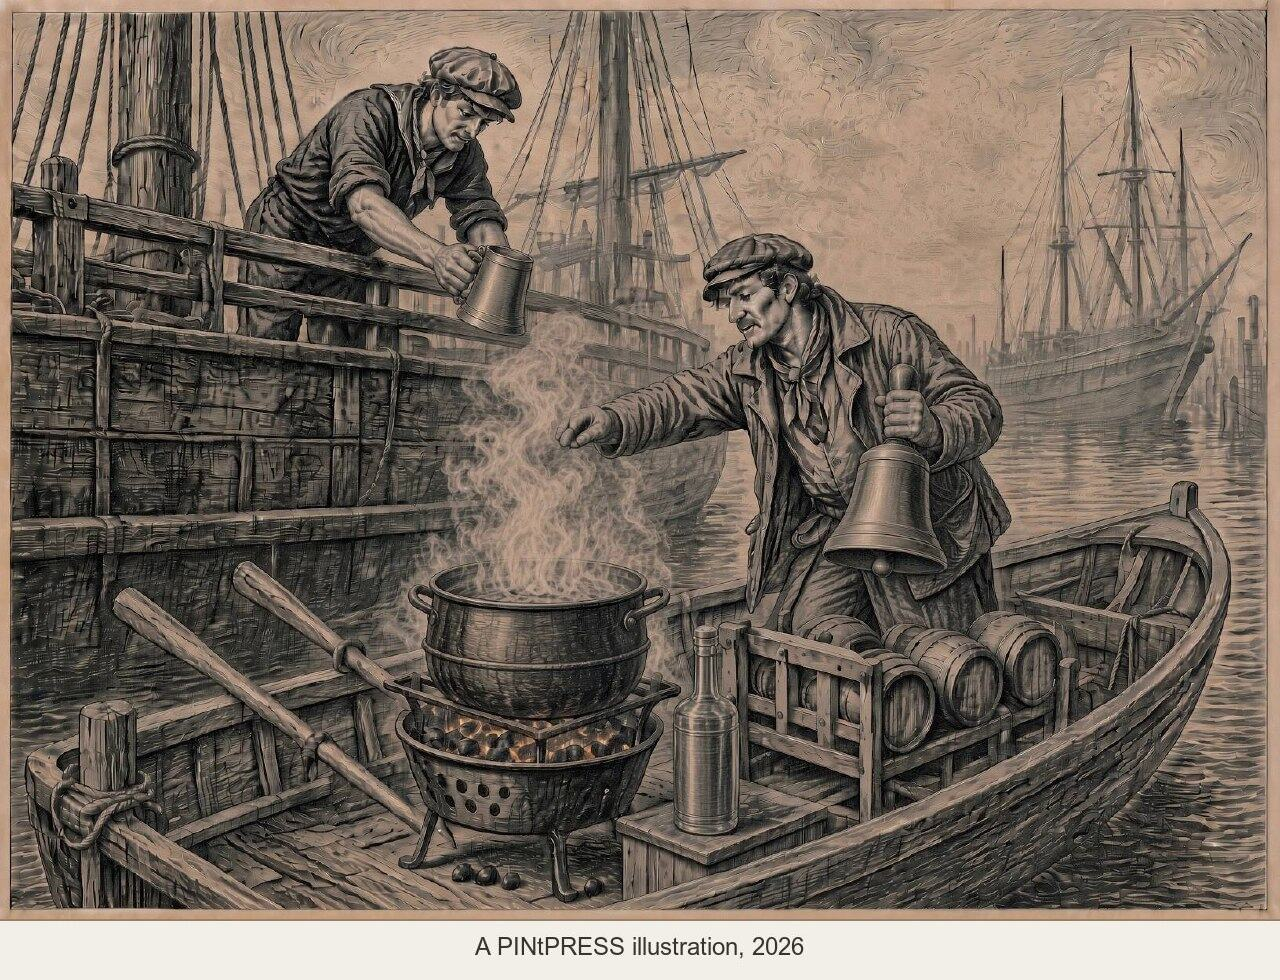
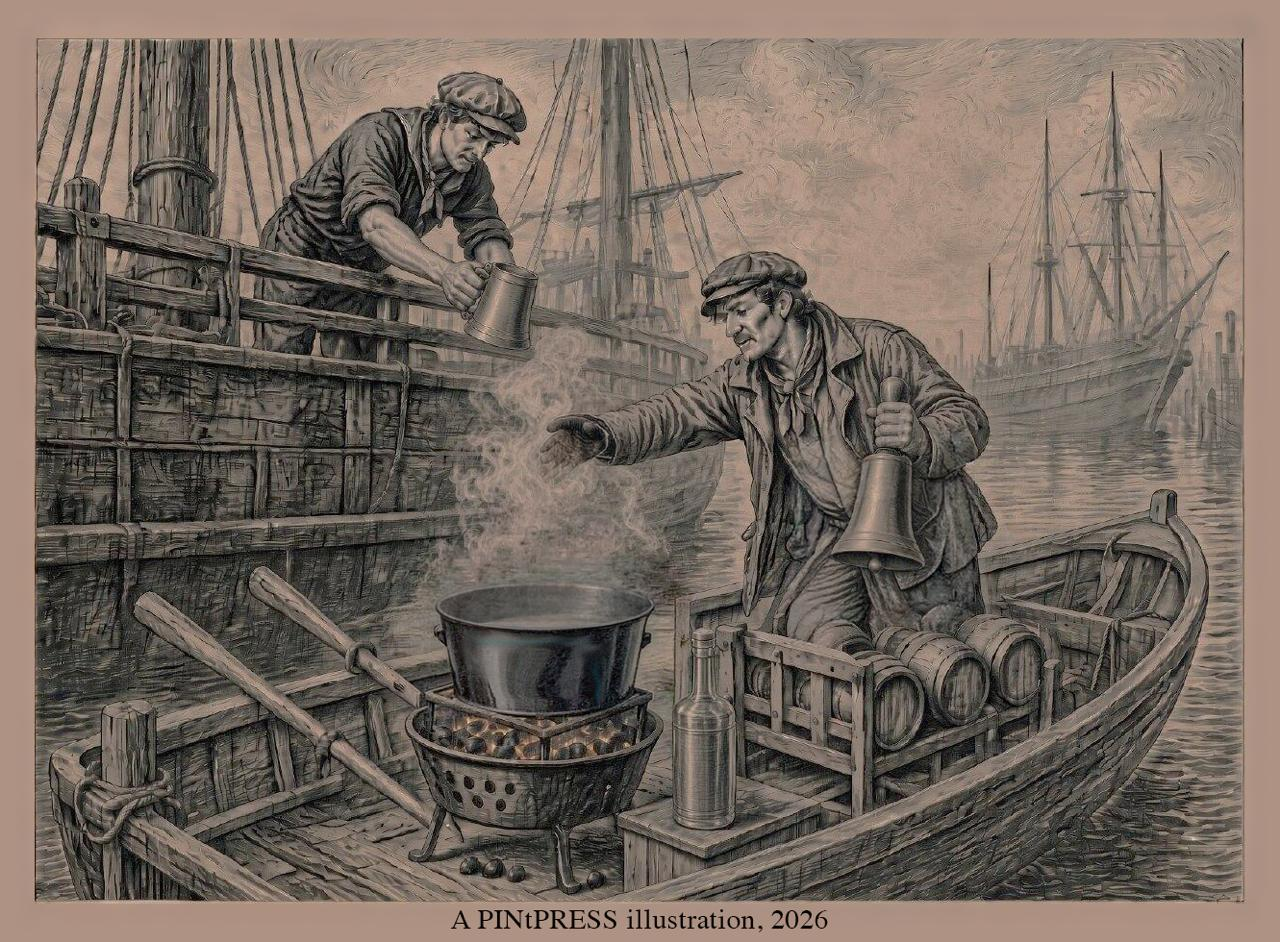
Purl: one plate, not a picture with a strip bolted under it
Paul's version sets the credit line in the plate's own paper and its own
serif, with an even border all round, so the full-size file reads as a
single object rather than an engraving with a caption spliced on.
1280x942. Lighter too: 246,631 and 203,748 against 343,547 and 230,472.

diff --git a/blog/drafts/hot-beer.html b/blog/drafts/hot-beer.html
@@ -78,7 +78,7 @@
       <a href="https://pintpoint.co.uk/blog/images/hot-beer-purl-man-illustration.jpg" target="_blank" rel="noopener noreferrer">
         <picture>
           <source type="image/webp" srcset="https://pintpoint.co.uk/blog/images/hot-beer-purl-man-illustration.webp" />
-          <img src="https://pintpoint.co.uk/blog/images/hot-beer-purl-man-illustration.jpg" alt="A modern illustration drawn in the manner of a Victorian wood engraving. A young purl-man leans out of his skiff with his oars resting across it, a large hand bell in one hand, small casks on a frame across the stern behind him, a black pot steaming on a fire pan drilled with holes, and a long-necked tin bottle standing on a box beside it. A sailor leans over the side of a collier above him with a tankard. A line printed beneath the plate reads A PINtPRESS illustration, 2026." width="1280" height="980" loading="lazy" />
+          <img src="https://pintpoint.co.uk/blog/images/hot-beer-purl-man-illustration.jpg" alt="A modern illustration drawn in the manner of a Victorian wood engraving. A young purl-man leans out of his skiff with his oars resting across it, a large hand bell in one hand, small casks on a frame across the stern behind him, a black pot steaming on a fire pan drilled with holes, and a long-necked tin bottle standing on a box beside it. A sailor leans over the side of a collier above him with a tankard. A line printed beneath the plate reads A PINtPRESS illustration, 2026." width="1280" height="942" loading="lazy" />
         </picture>
       </a>
       <figcaption>Based on Mayhew&rsquo;s description of the purl-man.</figcaption>

diff --git a/r/purl/index.html b/r/purl/index.html
@@ -82,7 +82,7 @@
       <a href="https://pintpoint.co.uk/blog/images/hot-beer-purl-man-illustration.jpg" target="_blank" rel="noopener noreferrer">
         <picture>
           <source type="image/webp" srcset="https://pintpoint.co.uk/blog/images/hot-beer-purl-man-illustration.webp" />
-          <img src="https://pintpoint.co.uk/blog/images/hot-beer-purl-man-illustration.jpg" alt="A modern illustration drawn in the manner of a Victorian wood engraving. A young purl-man leans out of his skiff with his oars resting across it, a large hand bell in one hand, small casks on a frame across the stern behind him, a black pot steaming on a fire pan drilled with holes, and a long-necked tin bottle standing on a box beside it. A sailor leans over the side of a collier above him with a tankard. A line printed beneath the plate reads A PINtPRESS illustration, 2026." width="1280" height="980" loading="lazy" />
+          <img src="https://pintpoint.co.uk/blog/images/hot-beer-purl-man-illustration.jpg" alt="A modern illustration drawn in the manner of a Victorian wood engraving. A young purl-man leans out of his skiff with his oars resting across it, a large hand bell in one hand, small casks on a frame across the stern behind him, a black pot steaming on a fire pan drilled with holes, and a long-necked tin bottle standing on a box beside it. A sailor leans over the side of a collier above him with a tankard. A line printed beneath the plate reads A PINtPRESS illustration, 2026." width="1280" height="942" loading="lazy" />
         </picture>
       </a>
       <figcaption>Based on Mayhew&rsquo;s description of the purl-man.</figcaption>
